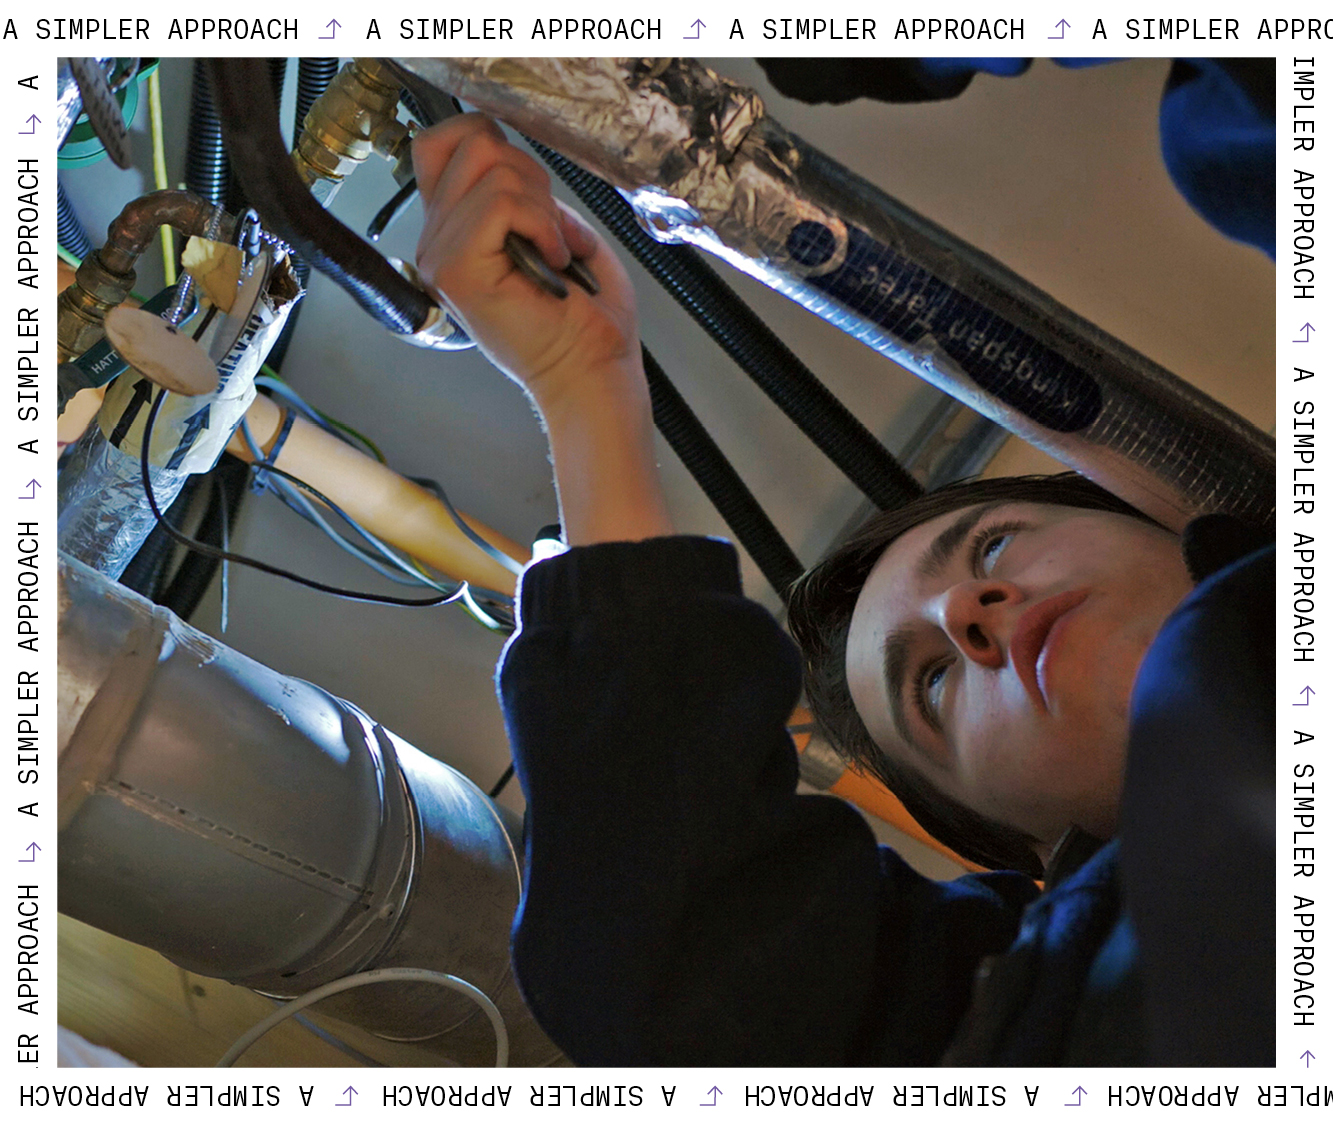
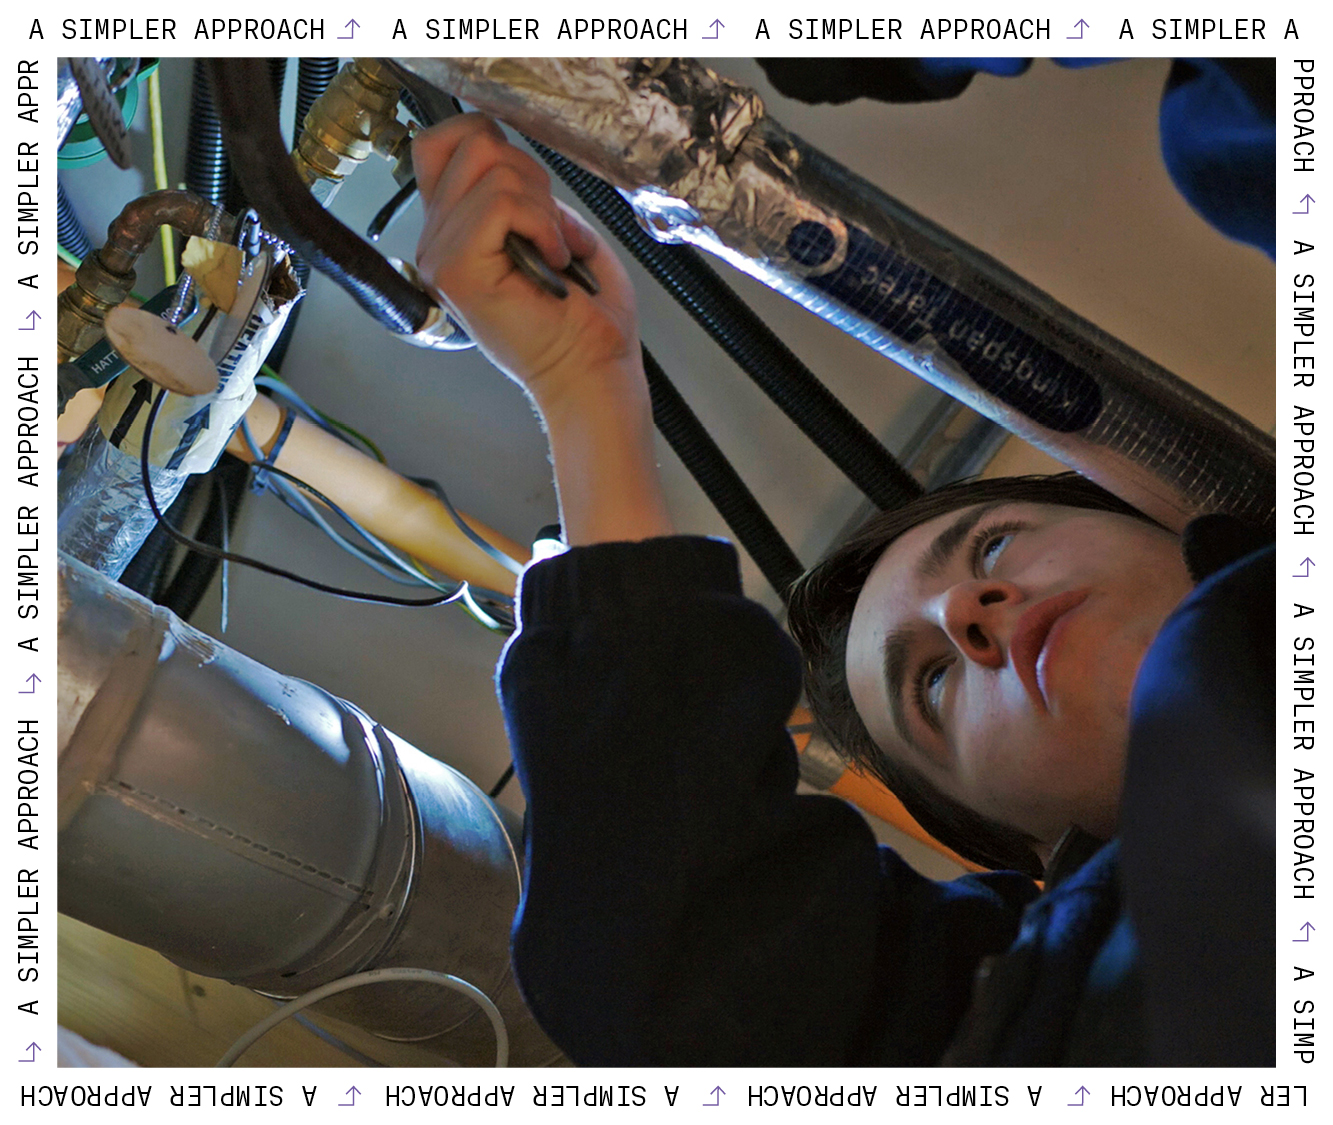
Fixes fixes fixes

diff --git a/sfa.Tl.Marketing.Communication/Frontend/src/scss/mixins/_content.scss b/sfa.Tl.Marketing.Communication/Frontend/src/scss/mixins/_content.scss
@@ -17,13 +17,19 @@
         height: 100%;
         display: flex;
 
-        @if $contenttype == wide {
-            padding: 60px 0;
+        @include media-max(small) {
+            padding: 30px 10px;
         }
 
-        @include media-max(small) {
-            padding: 30px 20px;
+        @if $contenttype == wide {
+            padding: 60px 0;
+
+            @include media-max(small) {
+                padding: 30px 0;
+            }
         }
+
+
 
         .tl-button--black, .tl-button--purple, .tl-button--orange, .tl-button--white {
             margin-top: 15px;
@@ -34,6 +40,19 @@
 
     .tl-container {
         max-width: 1240px;
+
+
+        @if $contenttype == wide {
+            @include media-max(small) {
+                padding: 0 15px;
+            }
+        }
+
+
+
+        @if $contenttype != wide {
+            padding: 0 20px;
+        }
     }
 
 

diff --git a/sfa.Tl.Marketing.Communication/Frontend/src/scss/mixins/_headings.scss b/sfa.Tl.Marketing.Communication/Frontend/src/scss/mixins/_headings.scss
@@ -51,12 +51,12 @@
         background-image: image("arrows/arrowup-" + $colour + ".svg");
         content: "";
         display: block;
-        background-size: contain;
+        background-size: 30px 50px;
+        min-width: ($fontsize * 1.5) + px;
         background-position: center;
         background-repeat: no-repeat;
         display: block;
         float: left;
-        width: ($fontsize * 1.75) + px;
         margin: 0 ($fontsize * 1) + px ($fontsize * 0.5) + px 0;
         transition: 0.3s ease-in;
         height: ($fontsize * 1.5) + px;

diff --git a/sfa.Tl.Marketing.Communication/Frontend/src/scss/helpers/_content.scss b/sfa.Tl.Marketing.Communication/Frontend/src/scss/helpers/_content.scss
@@ -22,10 +22,6 @@ $contentvariables:
         &--#{$contentname} {
             background-color: $contentbackground;
             @include content($contentbackground, $contenttext);
-
-            .tl-container {
-                @include container(0, 20);
-            }
         }
     }
 }

diff --git a/sfa.Tl.Marketing.Communication/Frontend/src/scss/helpers/_accessibility.scss b/sfa.Tl.Marketing.Communication/Frontend/src/scss/helpers/_accessibility.scss
@@ -40,3 +40,7 @@ input, select {
         outline: 3px solid rgba($orange, 0.5);
     }
 }
+
+.tl-breakword {
+    word-break: break-all;
+}
